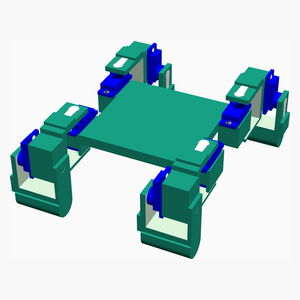
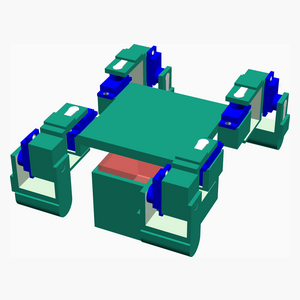
prop

diff --git a/hardware/readme.md b/hardware/readme.md
@@ -22,7 +22,8 @@
 | &nbsp;&nbsp;4&nbsp; |  &nbsp;&nbsp;4&nbsp; | &nbsp;&nbsp;foot.stl |
 | &nbsp;&nbsp;4&nbsp; |  &nbsp;&nbsp;4&nbsp; | &nbsp;&nbsp;leg.stl |
 | &nbsp;&nbsp;1&nbsp; |  &nbsp;&nbsp;1&nbsp; | &nbsp;&nbsp;main_body.stl |
-| &nbsp;&nbsp;13&nbsp; | &nbsp;&nbsp;13&nbsp; | &nbsp;&nbsp;Total 3D printed parts count |
+| &nbsp;&nbsp;1&nbsp; |  &nbsp;&nbsp;1&nbsp; | &nbsp;&nbsp;prop.stl |
+| &nbsp;&nbsp;14&nbsp; | &nbsp;&nbsp;14&nbsp; | &nbsp;&nbsp;Total 3D printed parts count |
 
 <span></span>
 [Top](#TOP)
@@ -37,9 +38,9 @@
 | ![base_holder.stl](stls/base_holder.png) | ![foot.stl](stls/foot.png) | ![leg.stl](stls/leg.png) 
 
 
-| 1 x main_body.stl |
-|---|
-| ![main_body.stl](stls/main_body.png) 
+| 1 x main_body.stl | 1 x prop.stl |
+|---|---|
+| ![main_body.stl](stls/main_body.png) | ![prop.stl](stls/prop.png) 
 
 
 
